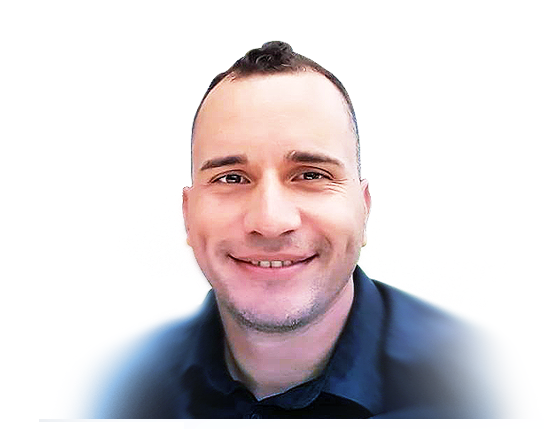
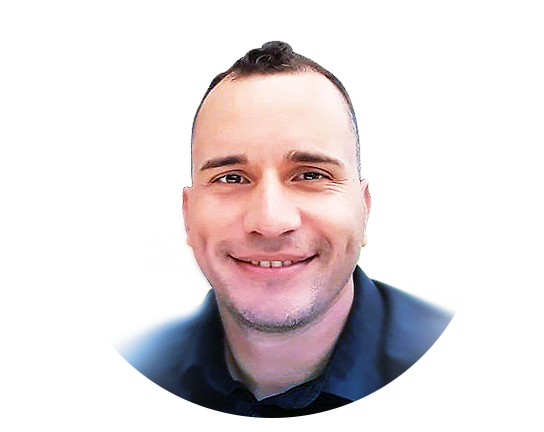
fixed picture

Changed region(s): [[0.125, 0.7222, 0.9375, 0.9931]]

diff --git a/index.html b/index.html
@@ -50,7 +50,9 @@
 						<header>
 							<h2>Juan Silva Software Engineer</h2>
 							<p>Your next great HIRE!</p>
+
 						</header>
+						
 						<span class="image"><img src="./images/face.png" alt="" /></span>
 					</div>
 					<a href="#one" class="goto-next scrolly">Next</a>
@@ -104,7 +106,7 @@
 							<h2>I have programmed daily all year!</h2>
 							<p></p>
 						</header>
-						<p>With a massive streak on github, I can show the dedication that I bring as a programmer. I am relentless when it comes to learning and can easily focus on topics of interest. Be it working on algorithms or working on projects I have not stopped practicing, learning and improving.  </p>
+						<p>With a massive streak on GitHub, I can show the dedication that I bring as a programmer. I am relentless when it comes to learning and can easily focus on topics of interest. Be it working on algorithms or working on projects I have not stopped practicing, learning and improving.  </p>
 						<ul class="actions">
 							<li><a href="www.github.com/prjavelin" class="button">Check out My GitHub</a></li>
 						</ul>
@@ -117,7 +119,7 @@
 					<div class="container">
 						<header class="major">
 							<h2>Portfolio</h2>
-							<p>Here is a small sample of my personal projects and my freelance work.</p>
+							<p>Here is a sample of my personal projects and my freelance work.</p>
 						</header>
 						<div class="box alt">
 							<div class="row gtr-uniform">
